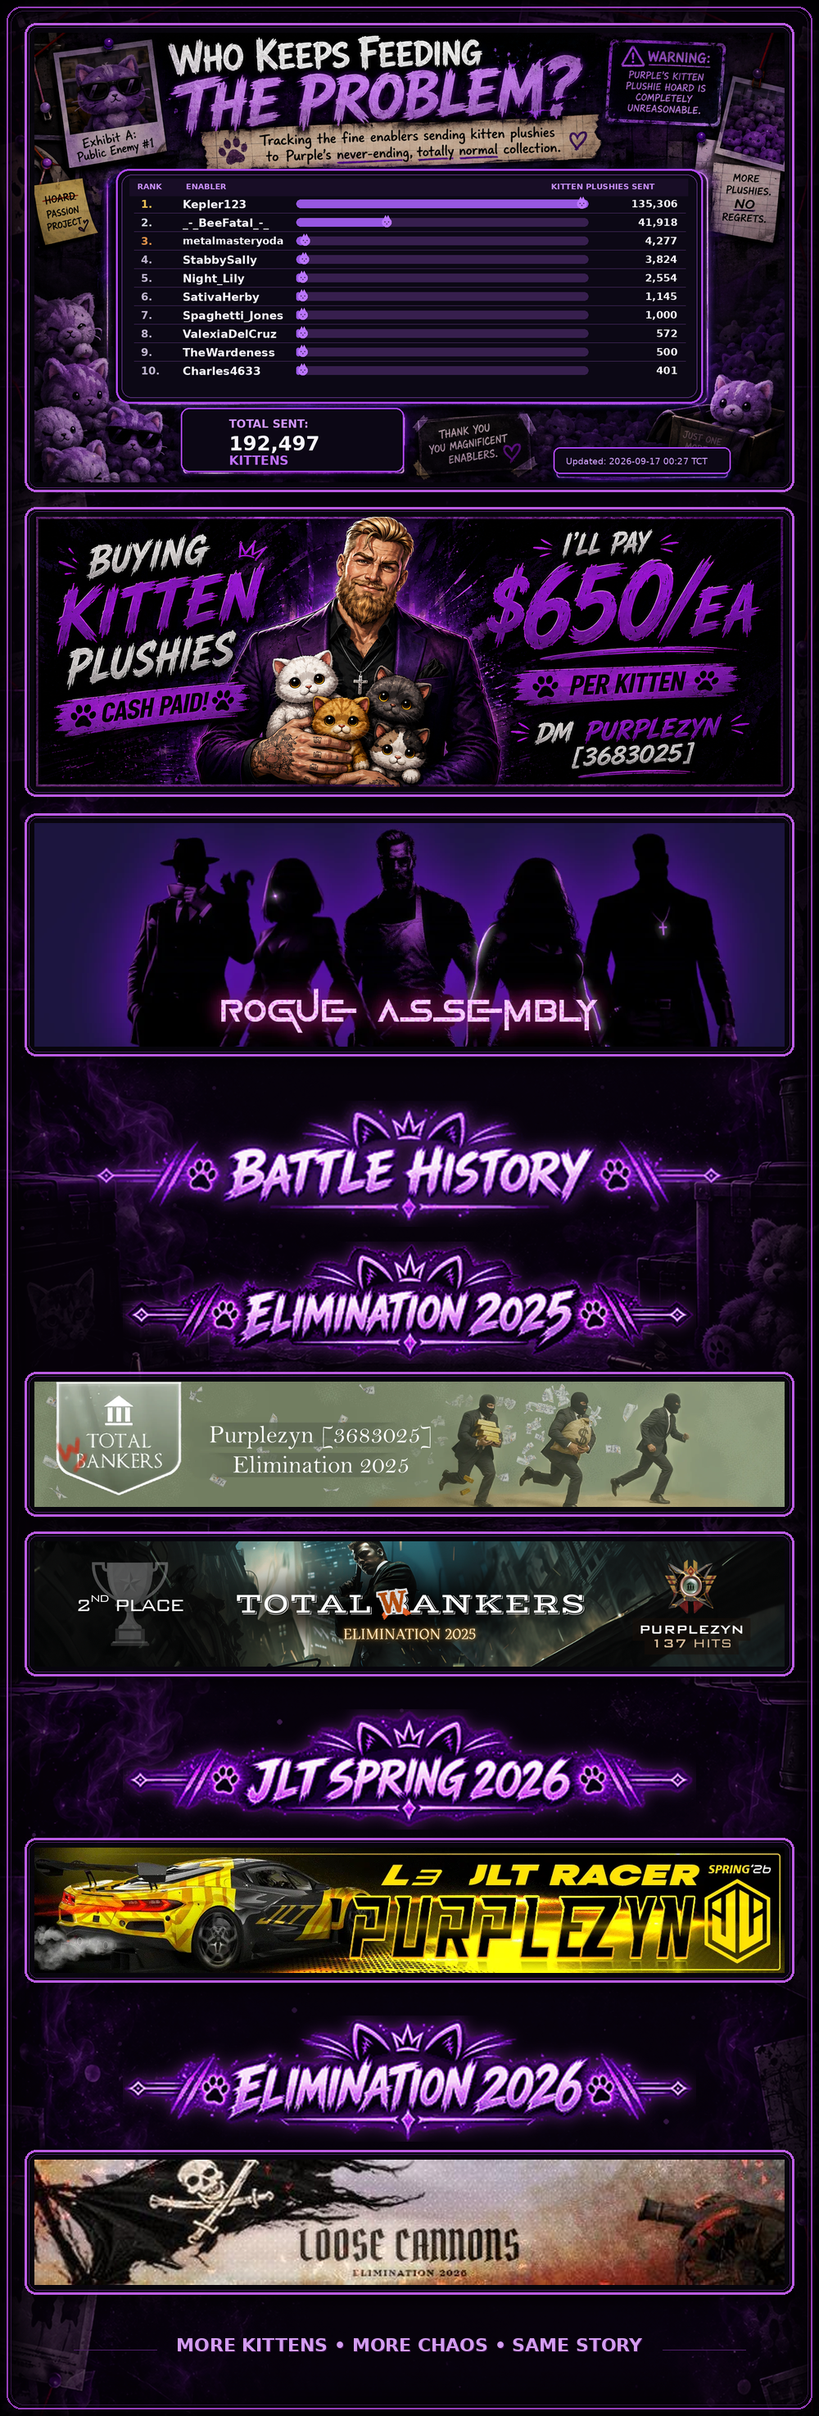
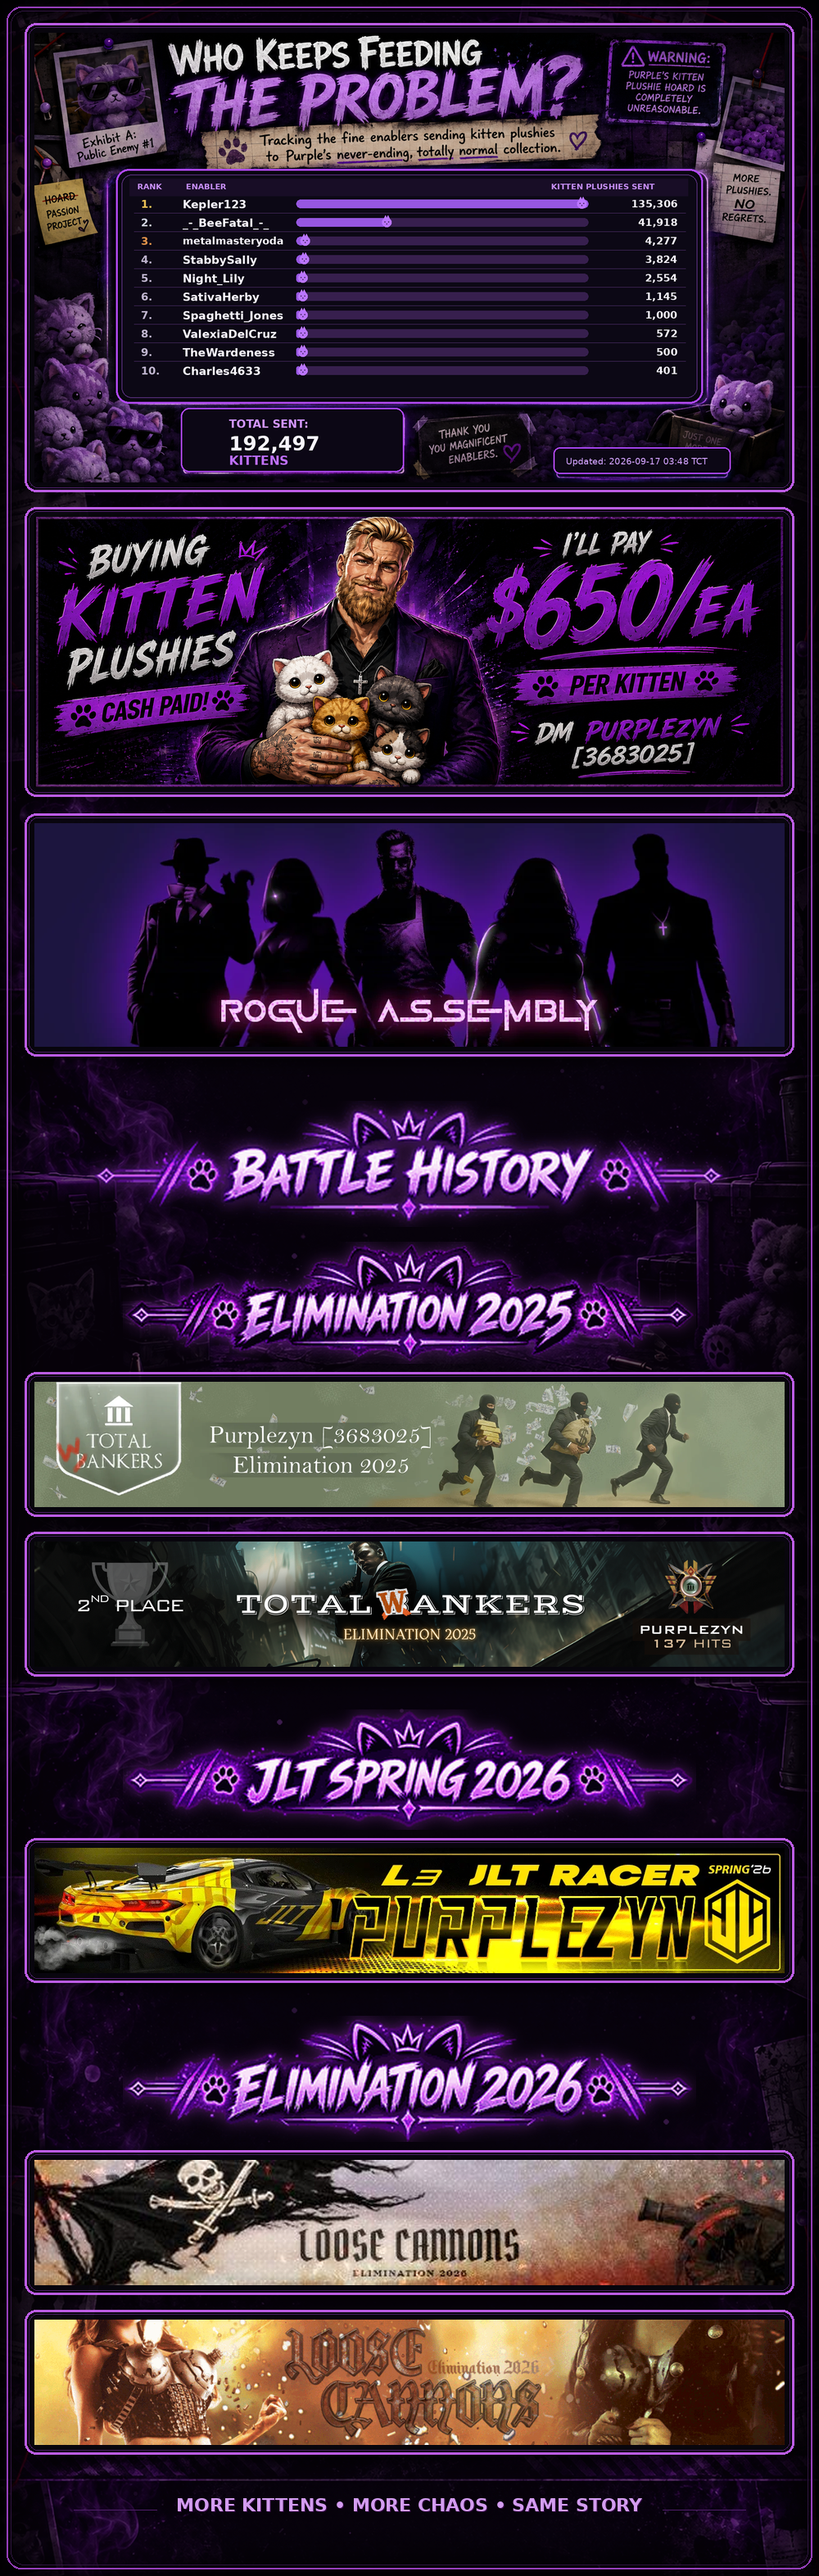
Update kitten tracker and signature

diff --git a/docs/index.html b/docs/index.html
@@ -16,6 +16,6 @@ p { color:#b8b0c5; }
 <body>
 <h1>WHO KEEPS FEEDING THE PROBLEM?</h1>
 <img src="kittens.png" alt="Kitten contribution leaderboard">
-<p>192,497 kittens tracked · Updated 2026-09-17 00:27 TCT</p>
+<p>192,497 kittens tracked · Updated 2026-09-17 03:48 TCT</p>
 </body>
 </html>
